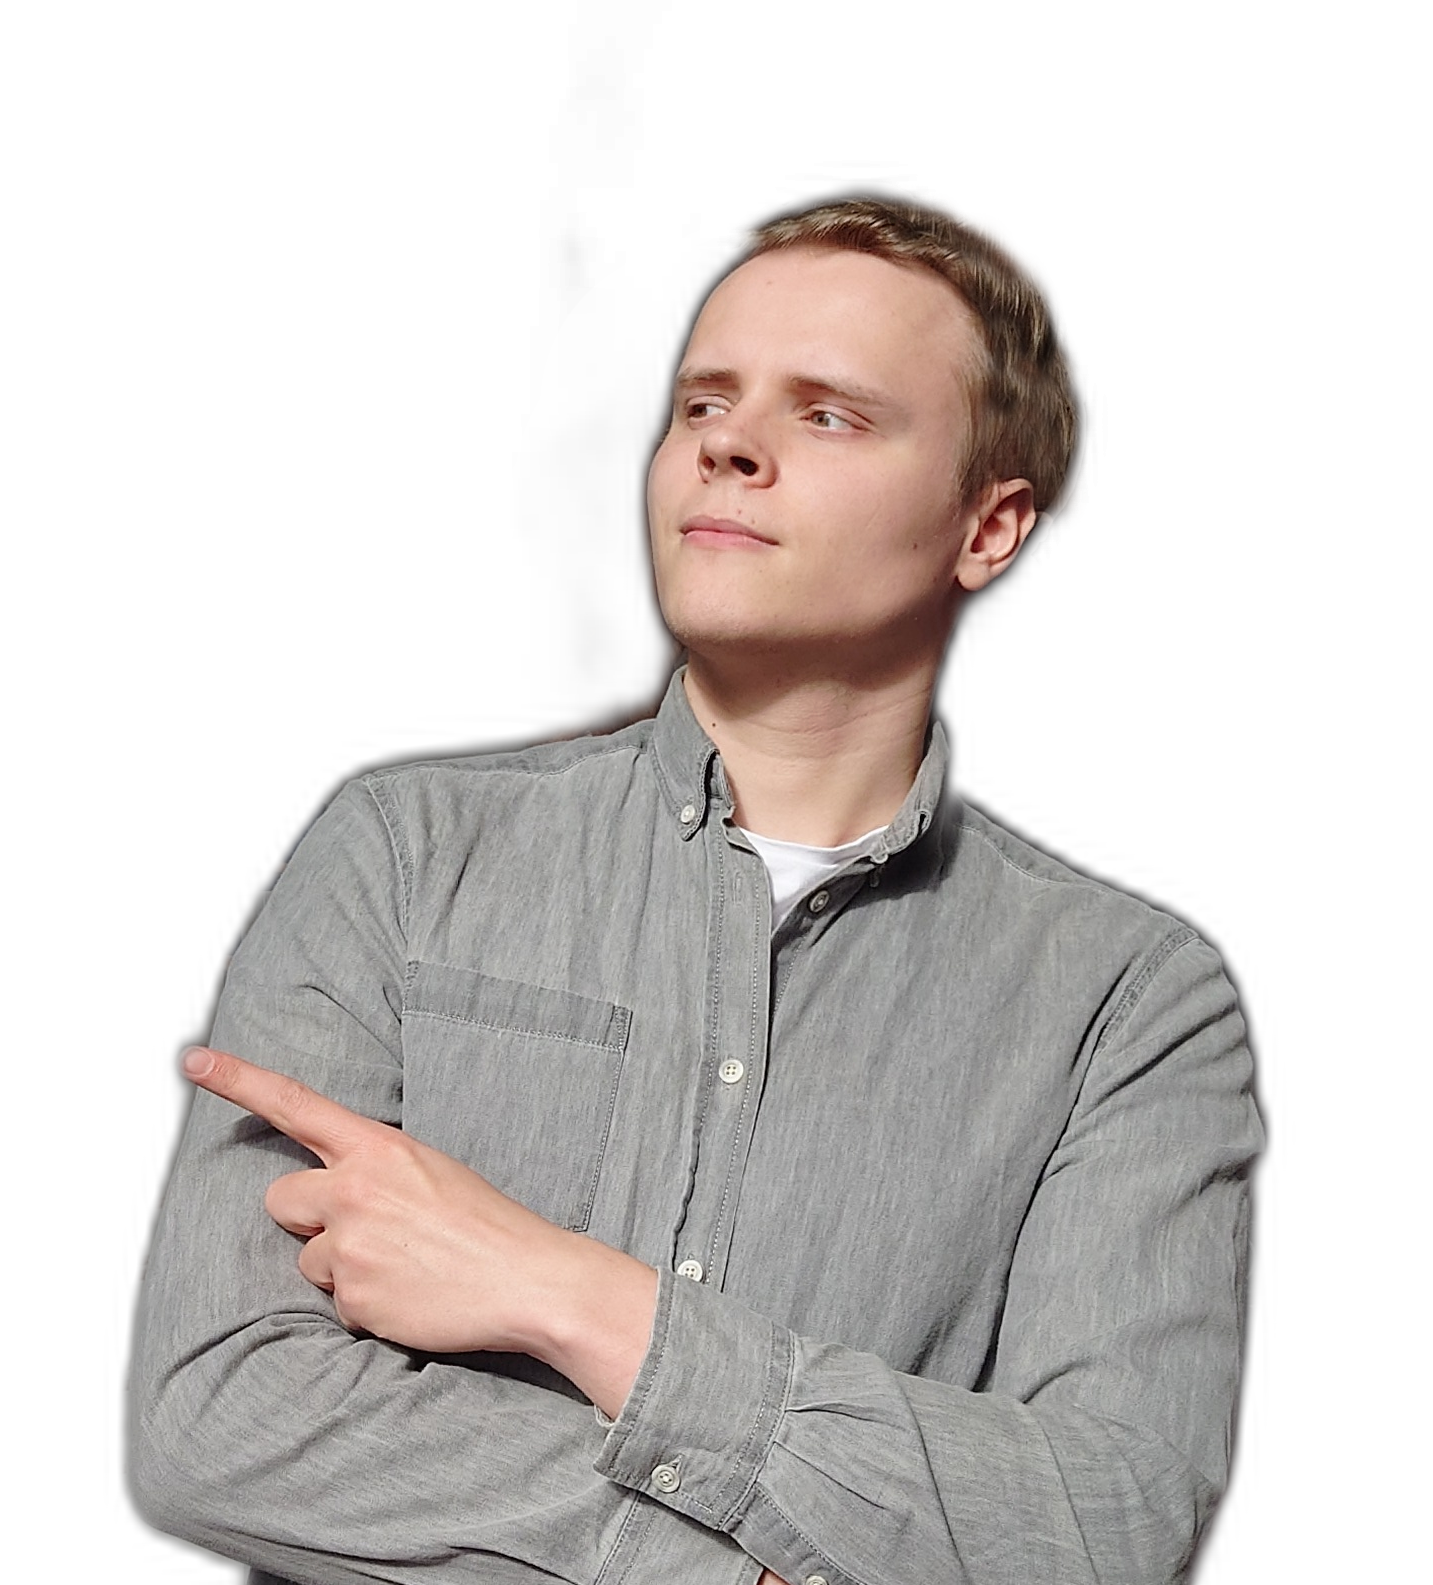
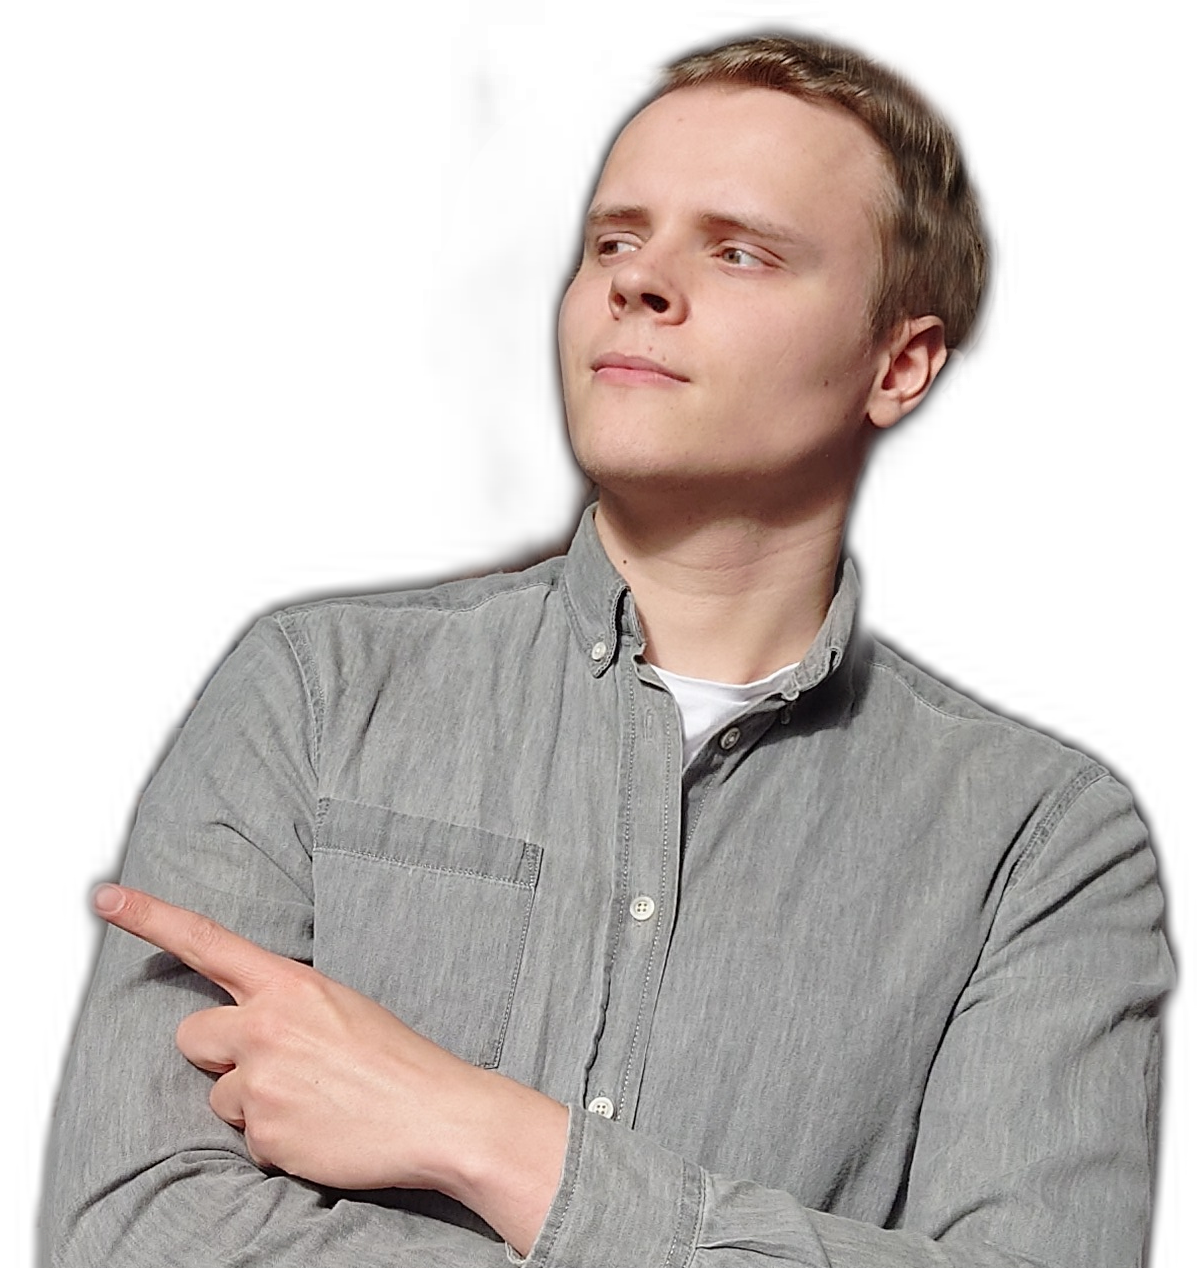
:sparkles: Added skills to aboutsection

diff --git a/src/organisms/AboutSection.js b/src/organisms/AboutSection.js
@@ -1,6 +1,8 @@
 import Image from "next/image";
 import marcoPointingAtText from "../../public/images/marcoPointing.png";
 import Section from "../molecules/Section";
+import H3 from "../atoms/H3";
+import Skill from "../molecules/Skill";
 
 export default function AboutSection() {
   return (
@@ -17,25 +19,51 @@ export default function AboutSection() {
                 "Welkom! Leuk dat je een kijkje komt nemen op mijn website. Ik ben Marco en ben in 2022 afgestudeerd in Communicatie en Multimedia design op de Hogeschool van Amsterdam. Het ontwerpen en ontwikkelen van gebruiksvriendelijke webapplicaties spreekt mij erg aan; Het bedenken van een idee, hierop itereren en deze iteraties toetsen met de doelgroep is dan ook iets wat ik graag doe. Ik zet altijd alles op alles om de beleving van de gebruiker voorop te zetten en deze te bevorderen."
               }
               paragraph1b={
-                "Naast mijn passie voor het ontwerpen en developen van websites, kan ik ook erg genieten van rust, natuur en dieren. Daarnaast spaar ik edelstenen en minarelen en besteed ik mijn vrije tijd ook graag aan videogames met goed verhaal. Hier kan ik helemaal in verdwalen."
+                "Naast mijn passie voor het ontwerpen en developen van websites, kan ik ook erg genieten van rust, natuur en dieren. Daarnaast spaar ik edelstenen en minarelen en besteed ik mijn vrije tijd ook graag aan videogames met goed verhaal, wat voor mij de meest immersieve manier is om een verhaal mee te krijgen"
               }
               linkHref={"https://github.com/marcoFijan"}
               linkText={"Bekijk mijn github"}
             ></Section>
           </section>
-          <div className="w-full h-full md:w-auto md:h-auto z-0">
-            <Image
-              className="w-full max-w-md mx-auto md:mx-0 md:w-auto h-auto md:max-w-lg block z-0 px-articlePadding"
-              src={marcoPointingAtText}
-              alt="Picture of Marco Fijan pointing to text"
-              height={1000}
-              width={1000}
-              priority={true}
-            />
-            <div className="relative w-full h-10">
-              <div className="-mt-12" id="bottomImageWave"></div>
+          <section>
+            <div className="w-full h-full md:w-auto md:h-auto z-0">
+              <Image
+                className="w-full max-w-md mx-auto md:mx-0 md:w-auto h-auto md:max-w-md block z-0 px-articlePadding"
+                src={marcoPointingAtText}
+                alt="Picture of Marco Fijan pointing to text"
+                height={1000}
+                width={1000}
+                priority={true}
+              />
+              {/* <div className="relative w-full h-10">
+                <div className="-mt-12" id="bottomImageWave"></div>
+              </div> */}
             </div>
-          </div>
+            <section className="grid grid-cols-2 gap-8 shadow-inputFieldValid bg-bgColorLight z-50 rounded-lg box-border px-8 pt-8 pb-4">
+              <section>
+                <Skill
+                  text={"HTML, CSS en Styling"}
+                  percentageClassname="w-[90%]"
+                />
+                <Skill text={"Javascript"} percentageClassname="w-[75%]" />
+                <Skill
+                  text={"NextJS en Svelte"}
+                  percentageClassname="w-[70%]"
+                />
+              </section>
+              <section>
+                <Skill text={"Three Fiber"} percentageClassname="w-[70%]" />
+                <Skill
+                  text={"Illustrator en Figma"}
+                  percentageClassname="w-[86%]"
+                />
+                <Skill
+                  text={"Unity Game engine"}
+                  percentageClassname="w-[65%]"
+                />
+              </section>
+            </section>
+          </section>
         </div>
       </article>
       <div className="relative h-1/2 w-full">

diff --git a/src/organisms/HeroSection.js b/src/organisms/HeroSection.js
@@ -1,5 +1,6 @@
 import styles from "../styles/heroAnimation.module.css";
 import NextLink from "../atoms/NextLink.js";
+import { motion } from "framer-motion";
 
 export default function HeroSection() {
   return (
@@ -13,7 +14,7 @@ export default function HeroSection() {
             className={styles.marco}
           >
             <title>MARCO</title>
-            <g id="Layer_2" data-name="Layer 2">
+            <motion.g id="Layer_2" data-name="Layer 2">
               <g id="Layer_1-2" data-name="Layer 1">
                 <path
                   className="stoke"
@@ -24,7 +25,7 @@ export default function HeroSection() {
                 <path d="M192,49.36A25.12,25.12,0,0,1,182,40a25.9,25.9,0,0,1-3.64-13.65A25.87,25.87,0,0,1,182,12.71a25,25,0,0,1,10-9.36A30.67,30.67,0,0,1,206.42,0a31.6,31.6,0,0,1,13.11,2.59,24.33,24.33,0,0,1,9.5,7.49L218.3,19.66q-4.68-5.91-11-5.91a11.25,11.25,0,0,0-8.57,3.42q-3.24,3.42-3.24,9.18t3.24,9.18A11.25,11.25,0,0,0,207.29,39q6.33,0,11-5.9L229,42.62a24.24,24.24,0,0,1-9.5,7.49,31.6,31.6,0,0,1-13.11,2.59A30.66,30.66,0,0,1,192,49.36Z" />
                 <path d="M244.65,49.32a25.25,25.25,0,0,1-13.82-23,25.25,25.25,0,0,1,13.82-23,33.31,33.31,0,0,1,29.24,0,25.25,25.25,0,0,1,13.82,23,25.25,25.25,0,0,1-13.82,23,33.31,33.31,0,0,1-29.24,0ZM265,37.4A11,11,0,0,0,269.06,33a13.93,13.93,0,0,0,1.51-6.66,14,14,0,0,0-1.51-6.66A11.08,11.08,0,0,0,265,15.3a11.33,11.33,0,0,0-11.44,0,11.08,11.08,0,0,0-4.07,4.39A14,14,0,0,0,248,26.35,13.93,13.93,0,0,0,249.48,33a11,11,0,0,0,4.07,4.39,11.33,11.33,0,0,0,11.44,0Z" />
               </g>
-            </g>
+            </motion.g>
           </svg>
           {/* Fijan SVG */}
           <svg
@@ -57,7 +58,7 @@ export default function HeroSection() {
           </p>
         </section>
         <div className="opacity-0 animate-[becomeVisible_1s_ease-in-out_6.5s_normal_forwards]">
-          <NextLink href={"#contact"} text={"Neem contact op!"} cta={true} />
+          <NextLink href={"/contact"} text={"Neem contact op!"} cta={true} />
         </div>
       </div>
     </section>

diff --git a/tailwind.config.js b/tailwind.config.js
@@ -34,6 +34,8 @@ module.exports = {
     extend: {
       colors: {
         accentColor: "#4dcbf5",
+        accentColorLight: "#68d9ff",
+        accentColorDark: "#2692b6",
         CTAColorLight: "#ff6f27",
         CTAColorDark: "#a73c0b",
         CTAColor: "#e06020",
@@ -51,8 +53,8 @@ module.exports = {
         ctaButton: "0px 0px 10px #ab1b0b;",
         buttonHover: "5px 5px 0px #2a2e32, -5px -5px 0px #3e444a;",
         button: "5px 5px 10px #2a2e32, -5px -5px 10px #3e444a;",
-        inputField: "inset 6px 6px 12px #d5dceb, inset -6px -6px 12px #f9ffff;",
-        inputFieldValid: "5px 5px 10px #d5dceb, -6px -6px 12px #f9ffff;",
+        inputField: "inset 5px 5px 10px #bbc2cf, inset -5px -5px 10px #ffffff;",
+        inputFieldValid: "  5px 5px 10px #bbc2cf, -5px -5px 10px #ffffff;",
         inputFieldDark:
           "inset 9px 9px 18px #222030, inset -9px -9px 18px #2c283e;",
         inputFieldDarkValid: "5px 5px 10px #222030, -9px -9px 18px #2c283e;",

diff --git a/src/organisms/Header.js b/src/organisms/Header.js
@@ -36,7 +36,7 @@ export default function Header() {
           />
           <label
             htmlFor="hamburgerMenu"
-            className="fixed flex items-center justify-center w-16 h-16 bg-gradient-to-br from-bgColorDarkLight via-bgColorDarkDark to-bgColorDarkLight rounded-lg shadow-md cursor-pointer bottom-8 right-4 md:hidden"
+            className="fixed flex items-center justify-center w-16 h-16 bg-gradient-to-br from-bgColorDarkLight via-bgColorDarkDark to-bgColorDarkLight shadow-button rounded-lg cursor-pointer bottom-8 right-4 md:hidden"
             id="hamburgerMenu"
           >
             <div className="" id="menuButtonBurger"></div>

diff --git a/src/molecules/Skill.js b/src/molecules/Skill.js
@@ -1,0 +1,14 @@
+import H3 from "../atoms/H3.js";
+
+export default function Skill({ text, percentageClassname }) {
+  return (
+    <>
+      <H3 text={text} />
+      <div className="w-full h-3 bg-bgColorLight shadow-inputField rounded-full relative mb-4">
+        <div
+          className={`${percentageClassname} absolute h-3 bg-gradient-to-br from-accentColorDark to-accentColorLight rounded-full`}
+        ></div>
+      </div>
+    </>
+  );
+}

diff --git a/src/molecules/Section.js b/src/molecules/Section.js
@@ -74,7 +74,7 @@ export default function Article({
             )}
           </section>
           <Image
-            className={`${paragraphImageClassname}w-full object-cover bg-black box-border p-4 border rounded-2xl`}
+            className={`${paragraphImageClassname} w-full object-cover bg-black box-border p-4 border rounded-2xl`}
             src={paragraphImageURL}
             alt={paragraphImageAlt}
             height={1000}

diff --git a/src/pageContents/MainCanvas.js b/src/pageContents/MainCanvas.js
@@ -61,8 +61,8 @@ export default function MainCanvas({}) {
             blur={0}
             files="../images/Environment/brown_photostudio_02_1k.hdr"
           />
-          <Smartphone mobile={mobile} />
-          <Laptop mobile={mobile} />
+          {/* <Smartphone mobile={mobile} />
+          <Laptop mobile={mobile} /> */}
 
           {/* <PortfolioAnimation mobile={mobile} /> */}
           <Scroll>

diff --git a/src/models/Laptop.js b/src/models/Laptop.js
@@ -11,7 +11,6 @@ import React, { useEffect, useRef, useState } from "react";
 import { useFrame } from "@react-three/fiber";
 import { useGLTF, useTexture, useScroll } from "@react-three/drei";
 import { gsap } from "gsap";
-import { useThree } from "@react-three/fiber";
 
 export default function Laptop({ mobile, props }) {
   const { nodes, materials } = useGLTF("/modelsResource/laptop.glb");

diff --git a/src/atoms/Title.js b/src/atoms/Title.js
@@ -1,7 +1,7 @@
 export default function H1({ text, darkBackground }) {
   return (
     <h1
-      className={`text-4xl pt-4 md:text-6xl lg:text-7xl uppercase font-black ${
+      className={`text-4xl pt-4 md:text-6xl lg:text-6xl uppercase font-black ${
         darkBackground ? "text-bgColorLight" : "text-black"
       }`}
     >
